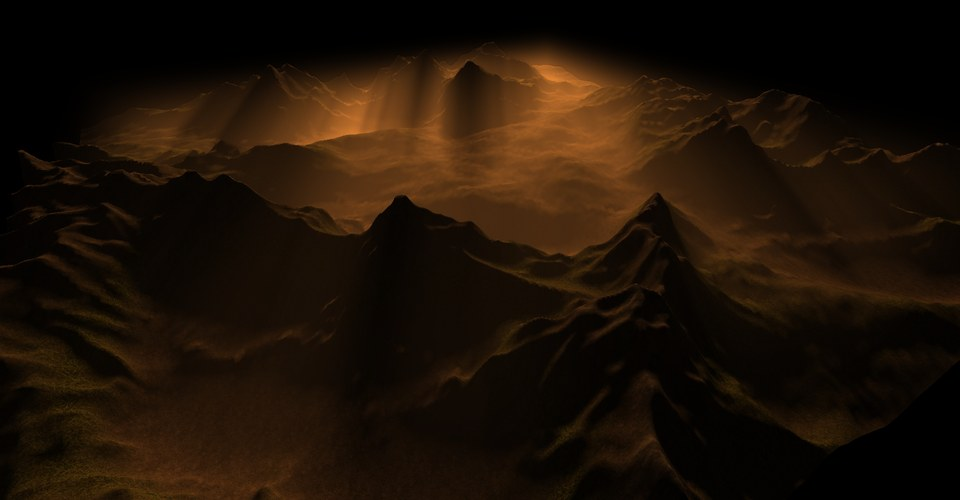
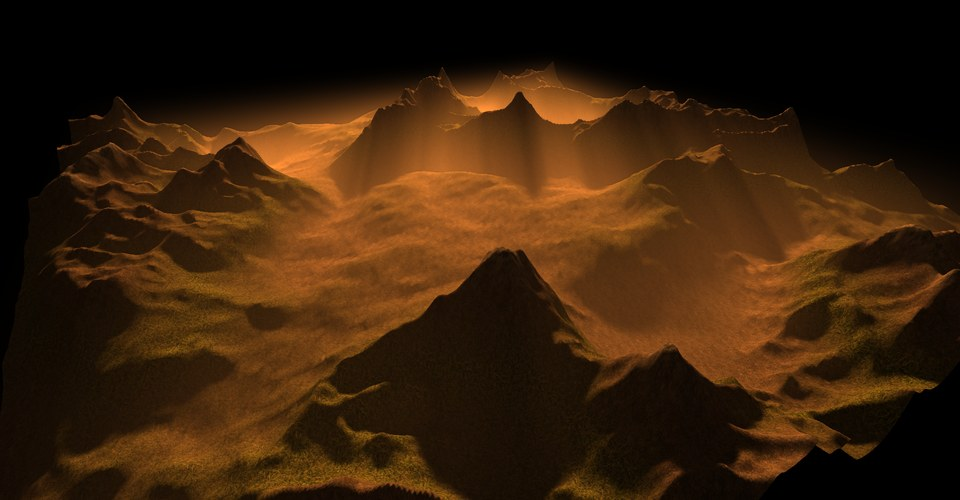
Keep the sunset grading in the light shafts capture
The synced capture turns the time of the day grading off for the neutral
README colors, which left the shafts capture under a full white sun and
blew the shafts out to white. The light shafts capture keeps the grading,
its orange sunset is the point; the plain capture is unchanged. The README
image is retaken with the path-traced lightmaps, whose true-height
shadows now continue into the shafts.

diff --git a/HeightmapRenderer/App.cpp b/HeightmapRenderer/App.cpp
@@ -284,9 +284,10 @@ void App::setupCapture()
     ChunkDetailLevel::Threeshold(capturePixelError);
     gui.hidden = true;
     // the low sun of the readme shadows would turn the time of the day
-    // grading into a sunset, the screenshot colors are neutral
-    gui.colorGrading = false;
-    terrain.EnableTimeOfTheDayColorGrading(false);
+    // grading into a sunset, the screenshot colors are neutral; the light
+    // shafts capture keeps it, its sunset is the point
+    gui.colorGrading = gui.lightShafts;
+    terrain.EnableTimeOfTheDayColorGrading(gui.lightShafts);
     // path trace the time of the day lighting, the first render uploads it
     terrain.bakeLightmaps(384, 512);
 
